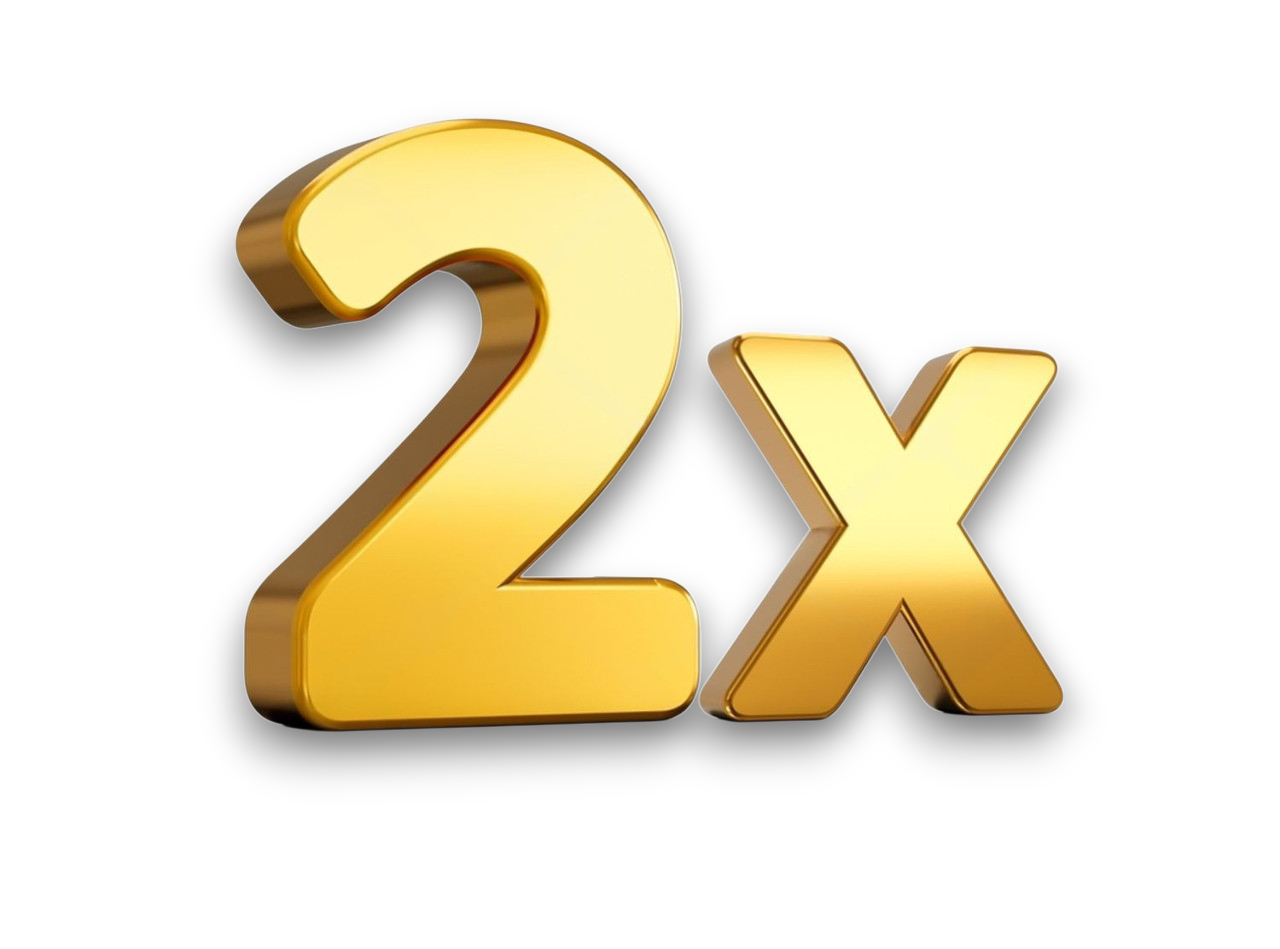
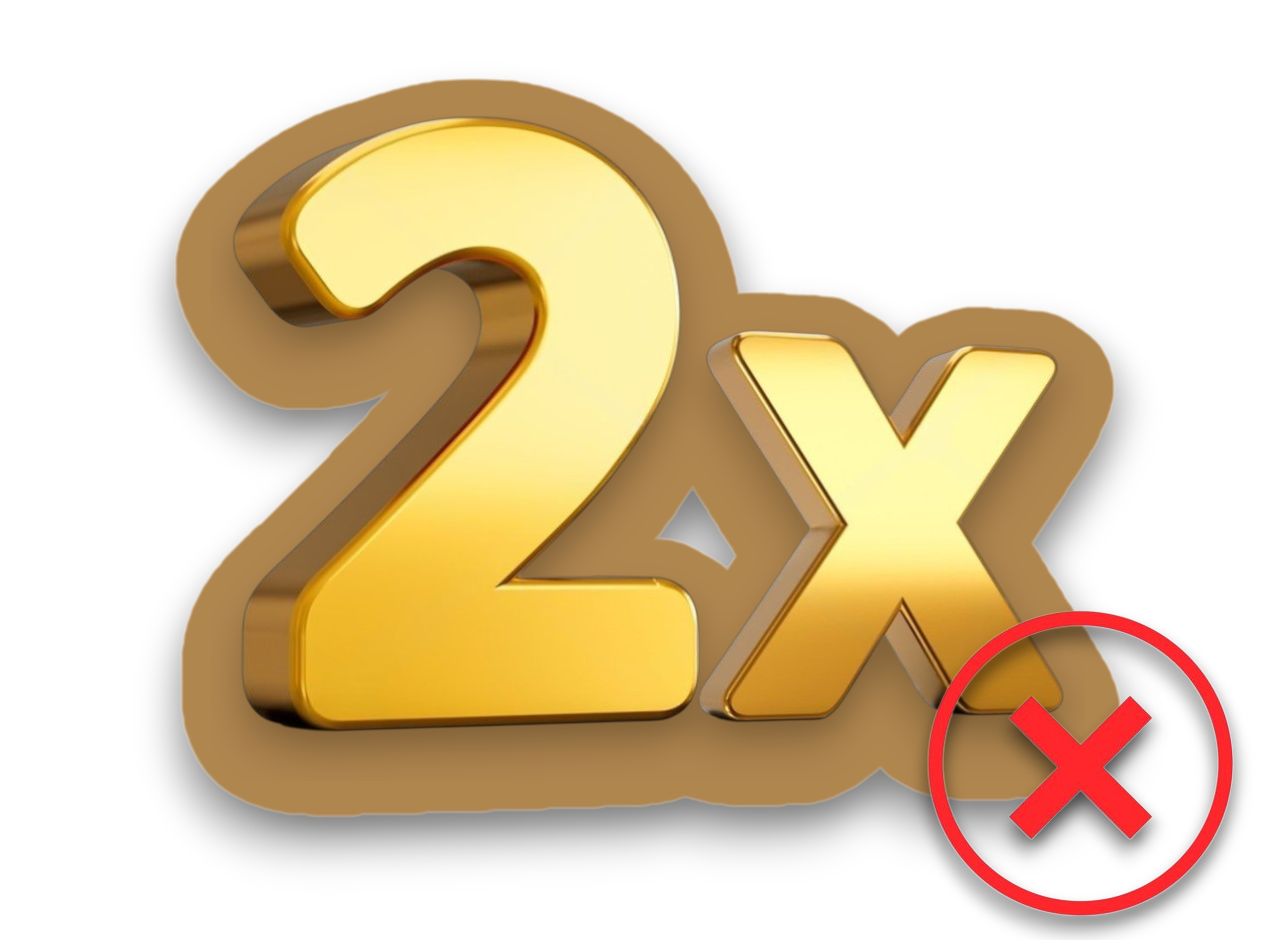
Criada opção na tela de batalha para aumentar a velocidade do turno de batalha.

Changed region(s): [[0.125, 0.0611, 0.9688, 1.0]]

diff --git a/src/main/java/livro/jogo/utils/AcoesBatalha.java b/src/main/java/livro/jogo/utils/AcoesBatalha.java
@@ -18,6 +18,7 @@ public class AcoesBatalha {
     private final TelaBatalha telaBatalha; //Necessário para interagir enviando mensagens para o painel (label)
     private final TelaSecoesBasica telaSecao;
     private final Util util = new Util();
+    private int milisegundos = 4000; //Tempo do delay mostrando os passos do turno de batalha
 
     ///Apenas para quando quiser usar a função acaoAoClicarNoBotaoFuga()
     public AcoesBatalha() {
@@ -30,6 +31,19 @@ public class AcoesBatalha {
         this.inimigo = inimigo;
         this.telaBatalha = telaBatalha;
         this.telaSecao = telaSecao;
+    }
+
+    //Aumenta ou diminue a velocidade
+    public boolean velocidade2x() {
+
+        if (milisegundos == 4000) {
+            this.milisegundos = 1000; //Aumenta a velocidade
+            return true;
+        }
+        else { //Volta para a velocidade normal
+            this.milisegundos = 4000;
+            return false;
+        }
     }
 
     //Retornando TRUE significa que mesmo perdendo energia ainda está VIVO
@@ -188,7 +202,7 @@ public class AcoesBatalha {
 
         telaBatalha.getLabelMostradorResultDadosInimigo().setText("0");
         telaBatalha.getLabelMostradorResultDadosPersonagem().setText("0");
-        mensagemComDelay(3000,"<html><center>Iniciando turno <br>"+telaBatalha.getQuantidadeRodadas()
+        mensagemComDelay(milisegundos,"<html><center>Iniciando turno <br>"+telaBatalha.getQuantidadeRodadas()
                 +"</center></html>");
 
         ///Calculando ataque do inimigo: Ataque é o resultado de 2 dados somado a sua habilidade
@@ -201,7 +215,7 @@ public class AcoesBatalha {
         ///Mostrar resultado no painel (escudo) do lado direito (inimigo)
         telaBatalha.getLabelMostradorResultDadosInimigo().setText(Integer.toString(forcaDeAtaqueInimigo));
         util.reproduzirAudioMp3("livros/florestadadestruicao/audio/efeitos_sonoros/calculo_ataque.mp3", null);
-        mensagemComDelay(4000,"<html><center>Ataque do inimigo calculado!</center></html>");
+        mensagemComDelay(milisegundos,"<html><center>Ataque do inimigo calculado!</center></html>");
 
 
         ///Calculando ataque do personagem: Ataque é o resultado de 2 dados somado a sua habilidade
@@ -219,7 +233,7 @@ public class AcoesBatalha {
         ///Mostrar resultado no painel (escudo) do lado esquerdo (personagem)
         telaBatalha.getLabelMostradorResultDadosPersonagem().setText(Integer.toString(forcaDeAtaquePersonagem));
         util.reproduzirAudioMp3("livros/florestadadestruicao/audio/efeitos_sonoros/calculo_ataque.mp3", null);
-        mensagemComDelay(4000,"<html><center>Seu ataque foi calculado!</center></html>");
+        mensagemComDelay(milisegundos,"<html><center>Seu ataque foi calculado!</center></html>");
 
 
 
@@ -231,13 +245,13 @@ public class AcoesBatalha {
             resultadoTurnoBatalha = ResultadoBatalha.PERSONAGEM_GANHOU_TURNO;
 
             inimigoVivo = Util.inimigoPerdeEnergia(2,inimigo);
-            mensagemComDelay(4000,"<html><center>"+ personagem.getNome()+
+            mensagemComDelay(milisegundos,"<html><center>"+ personagem.getNome()+
                     "<br>acerta o inimigo</center></html>");
 
             if ( !inimigoVivo ){
                 resultadoTurnoBatalha = ResultadoBatalha.INIMIGO_MORTO;
                 util.reproduzirAudioMp3("livros/florestadadestruicao/audio/efeitos_sonoros/vitoria.mp3", null);
-                mensagemComDelay(3000,"<html><center>Inimigo derrotado!</center></html>");
+                mensagemComDelay(milisegundos,"<html><center>Inimigo derrotado!</center></html>");
                 removerComponentesPanelETrocarImagem( telaSecao, telaBatalha.getPanelBotao() );
 
             }
@@ -247,7 +261,7 @@ public class AcoesBatalha {
             resultadoTurnoBatalha = ResultadoBatalha.PERSONAGEM_PERDEU_TURNO;
 
             util.reproduzirAudioMp3("livros/florestadadestruicao/audio/efeitos_sonoros/dor.mp3", null);
-            mensagemComDelay(4000,"<html><center>Inimigo o atinge</center></html>");
+            mensagemComDelay(milisegundos,"<html><center>Inimigo o atinge</center></html>");
             personagemVivo = UtilPersonagem.personagemPerdeEnergia(2);
 
 
@@ -264,7 +278,7 @@ public class AcoesBatalha {
                     boolean resultadoSorte = UtilPersonagem.testarSorte();
                     sorteJaUsada = true;
 
-                    TelaBasica.mostrarDadosRolando(4000, ImagensDoLivroFlorestaDaDestruicao.GIF_ROLANDO_DADOS);
+                    TelaBasica.mostrarDadosRolando(milisegundos, ImagensDoLivroFlorestaDaDestruicao.GIF_ROLANDO_DADOS);
 
                     if (resultadoSorte) {
                         util.reproduzirAudioMp3("livros/florestadadestruicao/audio/efeitos_sonoros/sorte.mp3", null);
@@ -287,13 +301,13 @@ public class AcoesBatalha {
                  util.reproduzirAudioMp3("livros/florestadadestruicao/audio/efeitos_sonoros/perdeu.mp3", null);
                 resultadoTurnoBatalha = ResultadoBatalha.PERSONAGEM_MORTO;
                 telaBatalha.atualizarIndicesPersonagemInimigo();
-                mensagemComDelay(3000,"<html><center>"+personagem.getNome()+",<br>sua energia<br>chegou a 0.</center></html>");
+                mensagemComDelay(milisegundos,"<html><center>"+personagem.getNome()+",<br>sua energia<br>chegou a 0.</center></html>");
             }
         }
         ///EMPATE
         else {
             util.reproduzirAudioMp3("livros/florestadadestruicao/audio/efeitos_sonoros/empate.mp3", null);
-            mensagemComDelay(4000,"<html><center>Empate!<br>Ambos desviam do ataque</center></html>");
+            mensagemComDelay(milisegundos,"<html><center>Empate!<br>Ambos desviam do ataque</center></html>");
             //No empate ambos escapam do ataque um do outro
             resultadoTurnoBatalha = ResultadoBatalha.EMPATE_TURNO;
         }
@@ -314,14 +328,14 @@ public class AcoesBatalha {
 
     //Seção 49 a força de ataque é reduzida em 3 pontos
     private int desvantagem3pontosNoAtque(){
-        mensagemComDelay(4000,"<html><center>-3 pontos na sua Força de  Ataque</center></html>");
+        mensagemComDelay(milisegundos,"<html><center>-3 pontos na sua Força de  Ataque</center></html>");
         return 3;
     }
 
     //Pode ser usado por outras telas que não sejam a tela de batalha
     public void animacaoRolagemDados(String mensagem){
         mensagemComDelay(2000,"<html><center>"+mensagem+"</center></html>");
-        TelaBasica.mostrarDadosRolando(4000,ImagensDoLivroFlorestaDaDestruicao.GIF_ROLANDO_DADOS);
+        TelaBasica.mostrarDadosRolando(milisegundos,ImagensDoLivroFlorestaDaDestruicao.GIF_ROLANDO_DADOS);
     }
 
     public ResultadoBatalha testarSorte(ResultadoBatalha resultadoBatalha){
@@ -334,13 +348,13 @@ public class AcoesBatalha {
         if ( resultadoBatalha == ResultadoBatalha.PERSONAGEM_GANHOU_TURNO ){
             //util.reproduzirAudioMp3("livros/florestadadestruicao/audio/efeitos_sonoros/rolar_dados.mp3", null);
             mensagemComDelay(2000, "<html><center>Teste de sorte...<center><html>");
-            TelaBasica.mostrarDadosRolando(4000, ImagensDoLivroFlorestaDaDestruicao.GIF_ROLANDO_DADOS);
+            TelaBasica.mostrarDadosRolando(milisegundos, ImagensDoLivroFlorestaDaDestruicao.GIF_ROLANDO_DADOS);
             var teveSorte = UtilPersonagem.testarSorte();
-            mensagemComDelay(4000, "<html><center>Teste realizado!<center><html>");
+            mensagemComDelay(milisegundos, "<html><center>Teste realizado!<center><html>");
 
             if ( teveSorte ){
                 util.reproduzirAudioMp3("livros/florestadadestruicao/audio/efeitos_sonoros/sorte.mp3", null);
-                mensagemComDelay(3000, "<html><center>SORTE!<br>O inimigo sofre<br>+2 de dano<center><html>");
+                mensagemComDelay(milisegundos, "<html><center>SORTE!<br>O inimigo sofre<br>+2 de dano<center><html>");
                 var inimigoVivo = Util.inimigoPerdeEnergia(2,inimigo);
 
                 if ( inimigoVivo )
@@ -355,7 +369,7 @@ public class AcoesBatalha {
             else{
                 //Se falhar no teste de sorte, devolve 1 ponto de energia para a criatura
                 util.reproduzirAudioMp3("livros/florestadadestruicao/audio/efeitos_sonoros/azar.mp3", null);
-                mensagemComDelay(4000, "<html><center>AZAR!<br>inimigo recupera<br>1 ponto<center><html>");
+                mensagemComDelay(milisegundos, "<html><center>AZAR!<br>inimigo recupera<br>1 ponto<center><html>");
                 inimigo.setEnergia(inimigo.getEnergia() + 1);
                 telaBatalha.atualizarIndicesPersonagemInimigo();
             }
@@ -370,26 +384,26 @@ public class AcoesBatalha {
         if ( resultadoBatalha == ResultadoBatalha.PERSONAGEM_PERDEU_TURNO ){
             //util.reproduzirAudioMp3("livros/florestadadestruicao/audio/efeitos_sonoros/rolar_dados.mp3", null);
             mensagemComDelay(2000, "<html><center>Teste de sorte...<center><html>");
-            TelaBasica.mostrarDadosRolando(4000, ImagensDoLivroFlorestaDaDestruicao.GIF_ROLANDO_DADOS);
+            TelaBasica.mostrarDadosRolando(milisegundos, ImagensDoLivroFlorestaDaDestruicao.GIF_ROLANDO_DADOS);
             var teveSorte = UtilPersonagem.testarSorte();
-            mensagemComDelay(4000, "<html><center>Teste realizado!<center><html>");
+            mensagemComDelay(milisegundos, "<html><center>Teste realizado!<center><html>");
 
             if ( teveSorte ){
                 util.reproduzirAudioMp3("livros/florestadadestruicao/audio/efeitos_sonoros/sorte.mp3", null);
-                mensagemComDelay(4000, "<html><center>SORTE!<br>Recupera 1 ponto<center><html>");
+                mensagemComDelay(milisegundos, "<html><center>SORTE!<br>Recupera 1 ponto<center><html>");
                 personagem.setEnergiaAtual(personagem.getEnergiaAtual() + 1);
                 telaBatalha.atualizarIndicesPersonagemInimigo();
             }
             else{
                 util.reproduzirAudioMp3("livros/florestadadestruicao/audio/efeitos_sonoros/azar.mp3", null);
-                mensagemComDelay(4000, "<html><center>AZAR!<br>+1 ponto de dano<center><html>");
+                mensagemComDelay(milisegundos, "<html><center>AZAR!<br>+1 ponto de dano<center><html>");
                 var personagemVivo = UtilPersonagem.personagemPerdeEnergia(1);
                 telaBatalha.atualizarIndicesPersonagemInimigo();
 
                 if ( !personagemVivo )
                 {
                     telaBatalha.atualizarIndicesPersonagemInimigo();
-                    mensagemComDelay(4000,"<html><center>"+personagem.getNome()+",<br>sua energia<br>chegou a 0.</center></html>");
+                    mensagemComDelay(milisegundos,"<html><center>"+personagem.getNome()+",<br>sua energia<br>chegou a 0.</center></html>");
                     return ResultadoBatalha.PERSONAGEM_MORTO;
                 }
             }

diff --git a/src/main/java/livro/jogo/telas/desktop/principal/TelaBatalha.java b/src/main/java/livro/jogo/telas/desktop/principal/TelaBatalha.java
@@ -65,6 +65,8 @@ public class TelaBatalha extends JDialog {
 
         /* Carregar componentes da tela */
 
+        //Carrega botão de aumento/diminuição de velocidade do turno
+        carregaBotao2x();
 
         //Carrega a tela de mensagem suspensa, mas invisível
         telaMensagemSuspensaBotaoSorte();
@@ -78,9 +80,65 @@ public class TelaBatalha extends JDialog {
         carregaImagemMostraResultRolagemDado();
         carregarPainelEsquerdo();
         carregarPainelDireito();
-        //carregarBotaoSair();
         carregarFaixaTitulo();
         carregarFundoTela(largura,altura);
+    }
+
+    private void carregaBotao2x() {
+        int largura = 60;
+        int altura  = 40;
+
+        JLabelOpcoesTelaSecao botao2x = new JLabelOpcoesTelaSecao(null,
+                largura, altura, ImagensDoLivroFlorestaDaDestruicao.X_2);
+        botao2x.setHorizontalAlignment(SwingConstants.CENTER);
+        botao2x.setCursor(new Cursor(Cursor.HAND_CURSOR));
+        botao2x.setBounds(770,235, largura, altura);
+        botao2x.setToolTipText("Desativado - Velocidade do turno de batalha.");
+        add(botao2x);
+        botao2x.addMouseListener(new MouseListener() {
+            @Override
+            public void mouseClicked(MouseEvent e) {
+                if ( e.getSource() == botao2x ){
+
+                    //Aumenta/diminui velocidade do turno
+                    var velocidadeAumentada = acoesBatalha.velocidade2x();
+                    if ( velocidadeAumentada ) {
+                        botao2x.setIcon(new RedimensionarImagem(ImagensDoLivroFlorestaDaDestruicao.X_2_SELECIONADO.getEnderecoImagem(),
+                                botao2x.getWidth(), botao2x.getHeight()).getImageIcon());
+                        botao2x.setToolTipText("Ativado - Velocidade do turno de batalha.");
+                    }
+                    else {
+                        botao2x.setIcon(new RedimensionarImagem(ImagensDoLivroFlorestaDaDestruicao.X_2.getEnderecoImagem(),
+                                botao2x.getWidth(), botao2x.getHeight()).getImageIcon());
+                        botao2x.setToolTipText("Desativado - Velocidade do turno de batalha.");
+                    }
+
+
+                    repaint();
+
+                }
+            }
+
+            @Override
+            public void mousePressed(MouseEvent e) {
+
+            }
+
+            @Override
+            public void mouseReleased(MouseEvent e) {
+
+            }
+
+            @Override
+            public void mouseEntered(MouseEvent e) {
+
+            }
+
+            @Override
+            public void mouseExited(MouseEvent e) {
+
+            }
+        });
     }
 
     public JPanel getPanelBotao() {

diff --git a/src/main/java/livro/jogo/enums/ImagensDoLivroFlorestaDaDestruicao.java b/src/main/java/livro/jogo/enums/ImagensDoLivroFlorestaDaDestruicao.java
@@ -20,6 +20,7 @@ public enum ImagensDoLivroFlorestaDaDestruicao {
     PERGAMINHO_FAIXA("livros/florestadadestruicao/imagens/pergaminho_inferior_secao.png"),
     PERGAMINHO_ABERTO("livros/florestadadestruicao/imagens/pergaminho_aberto7.png"),
     X_2("livros/florestadadestruicao/imagens/2x.png"),
+    X_2_SELECIONADO("livros/florestadadestruicao/imagens/2x_selecionado.png"),
     PERGAMINHO_1("livros/florestadadestruicao/imagens/pergaminho_1.png"),
     FAIXA_INDICE_TELA_SECAO("livros/florestadadestruicao/imagens/faixa9.png"),
     FAIXA_NOME_PERSONAGEM_TELA_SECAO("livros/florestadadestruicao/imagens/faixa2.png"),
